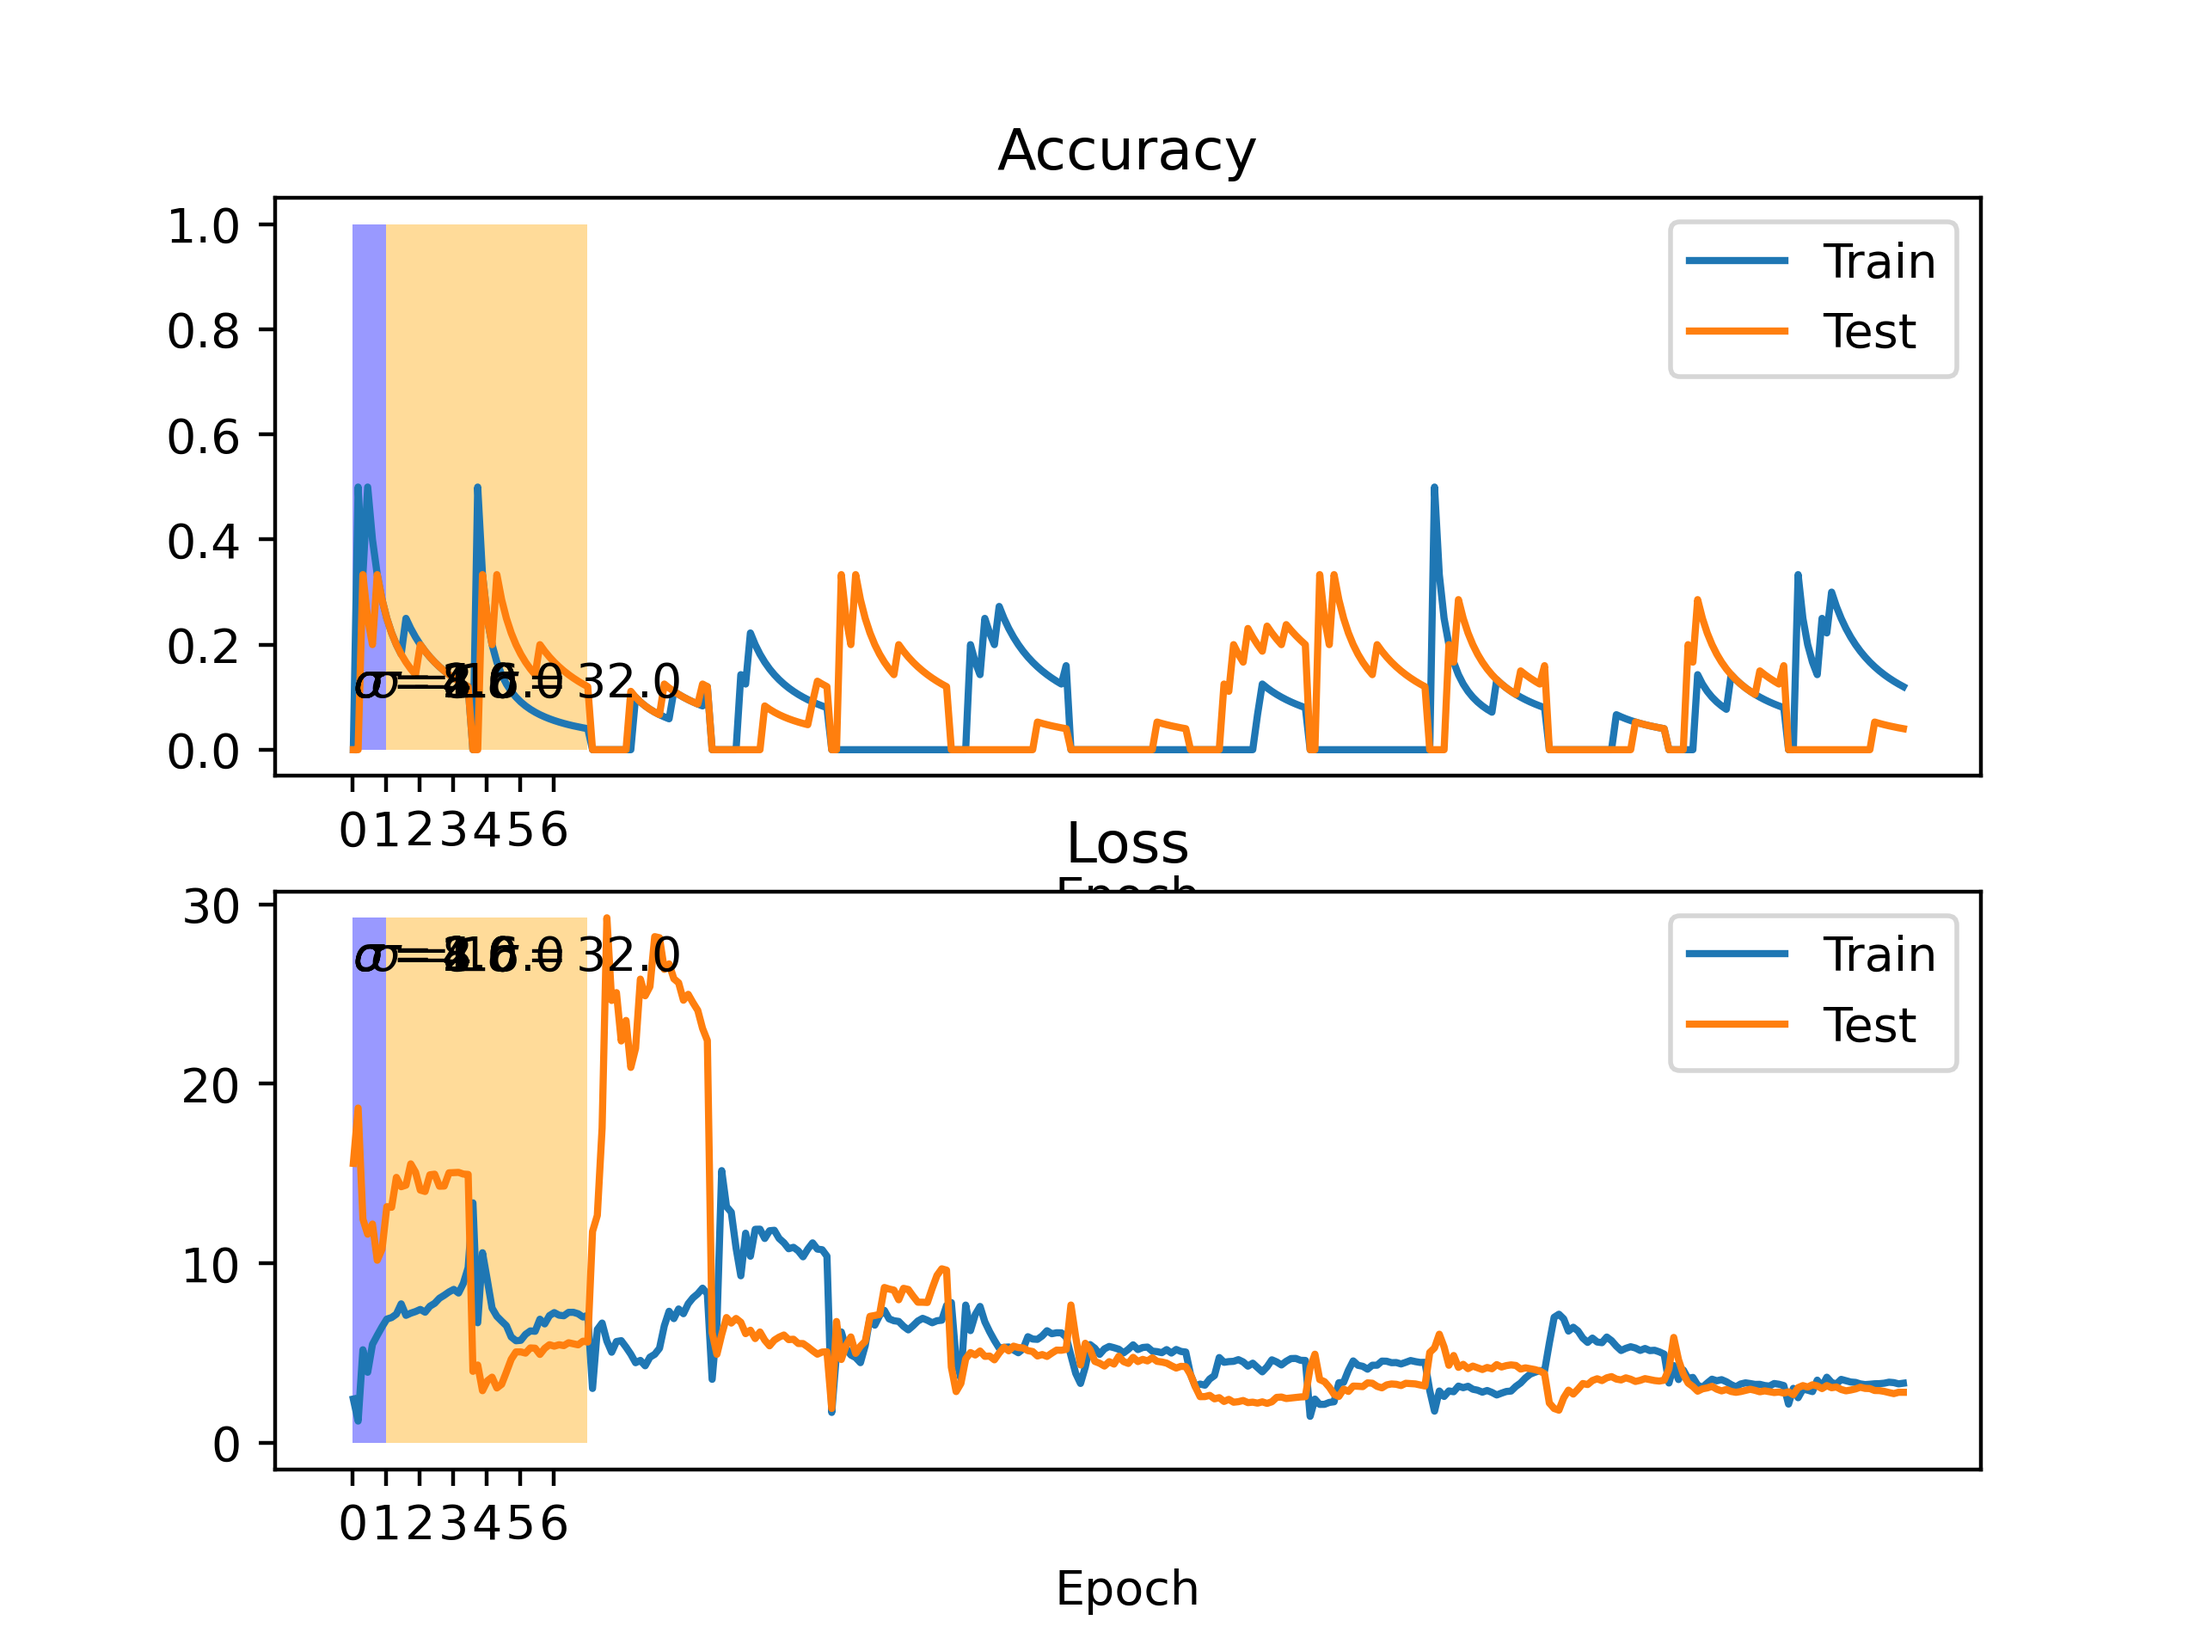
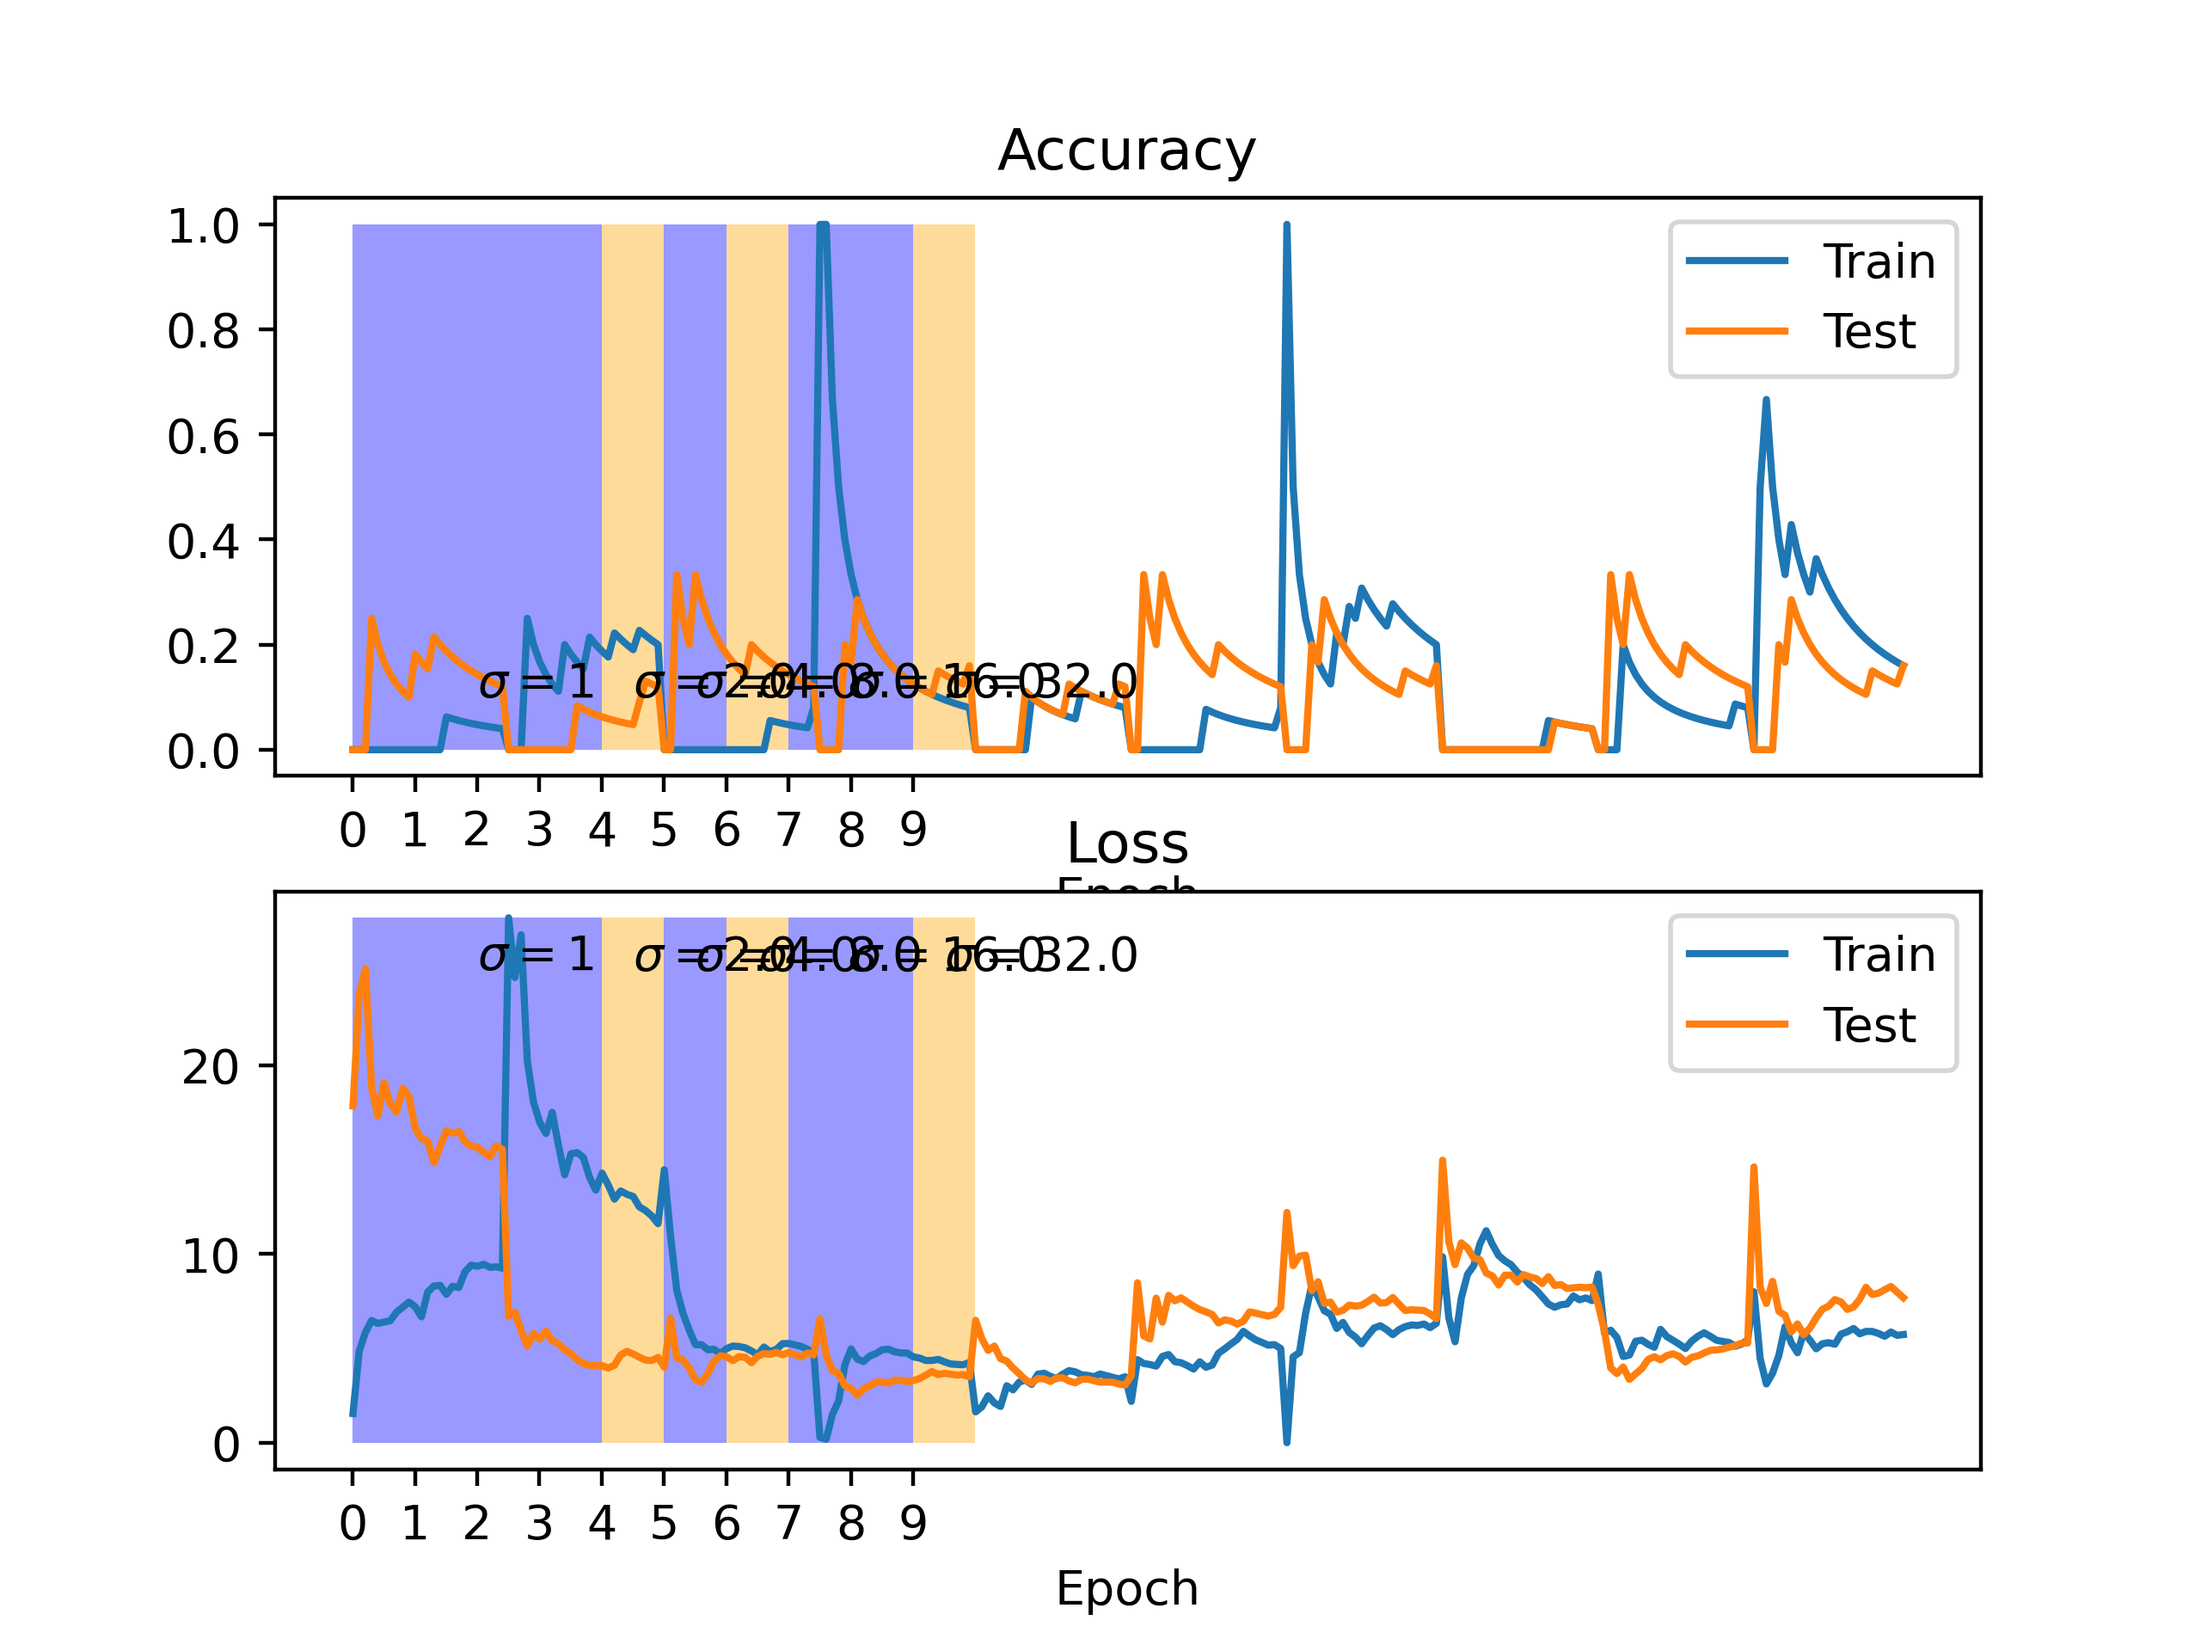
runtype

diff --git a/src/viz.py b/src/viz.py
@@ -43,10 +43,10 @@ def visualize_loss_acc(opt, allLosses, allAccs, epochLengths, compRates = None):
 
 	smidge = 0.5 / len(allAccs[0]["train"])
 
-	lossAx.plot(smidge + np.arange(len(trainLoss)) / xPrev, trainLoss, label="Train")
-	lossAx.plot(smidge + np.arange(len(testLoss)) / xPrev, testLoss, label="Test")
-	accAx.plot(smidge + np.arange(len(trainAcc)) / xPrev, trainAcc, label="Train")
-	accAx.plot(smidge + np.arange(len(testAcc)) / xPrev, testAcc, label="Test")
+	lossAx.plot(smidge + np.arange(len(trainLoss)) * xPrev / len(trainLoss), trainLoss, label="Train")
+	lossAx.plot(smidge + np.arange(len(testLoss)) * xPrev / len(testLoss), testLoss, label="Test")
+	accAx.plot(smidge + np.arange(len(trainAcc)) * xPrev / len(trainAcc), trainAcc, label="Train")
+	accAx.plot(smidge + np.arange(len(testAcc)) * xPrev / len(testAcc), testAcc, label="Test")
 	accAx.legend()
 	lossAx.legend()
 	lossAx.set_title("Loss")
